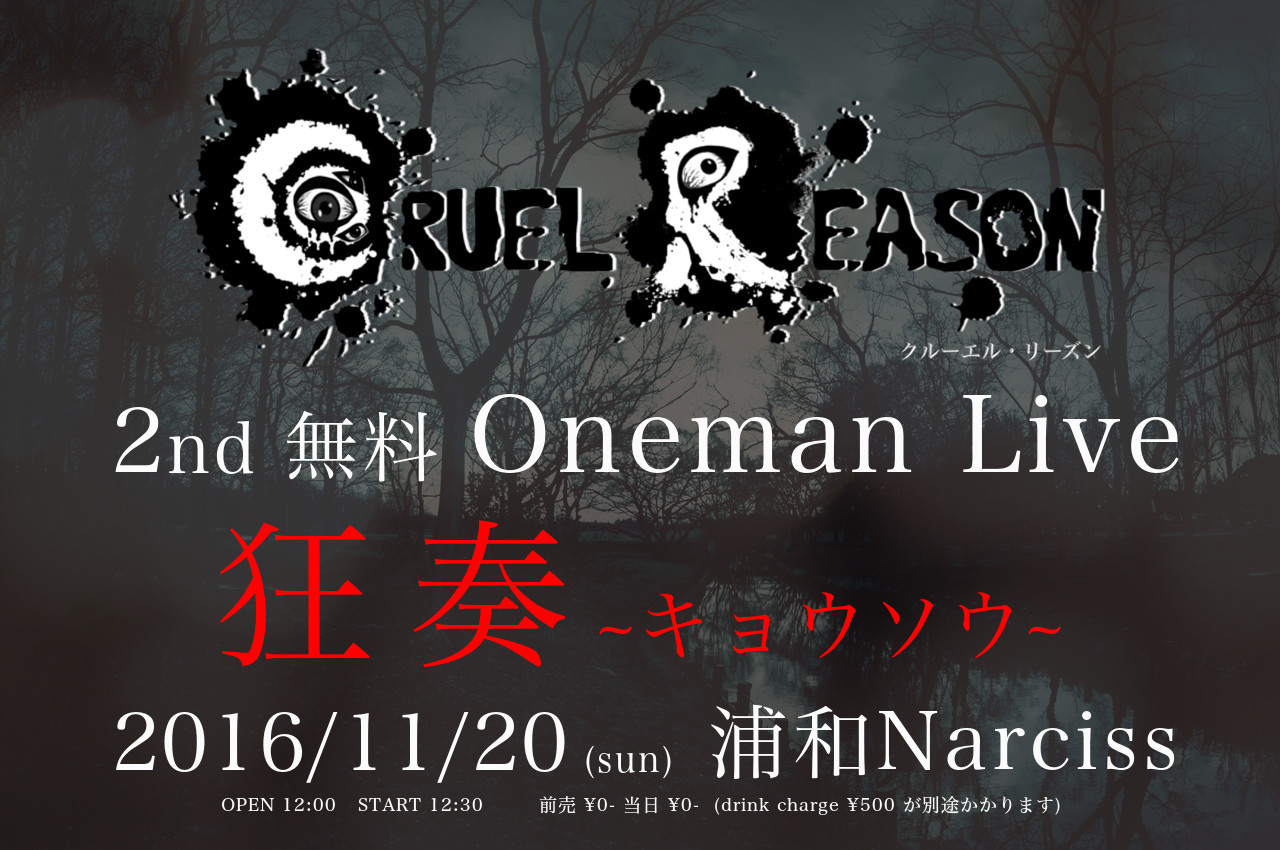
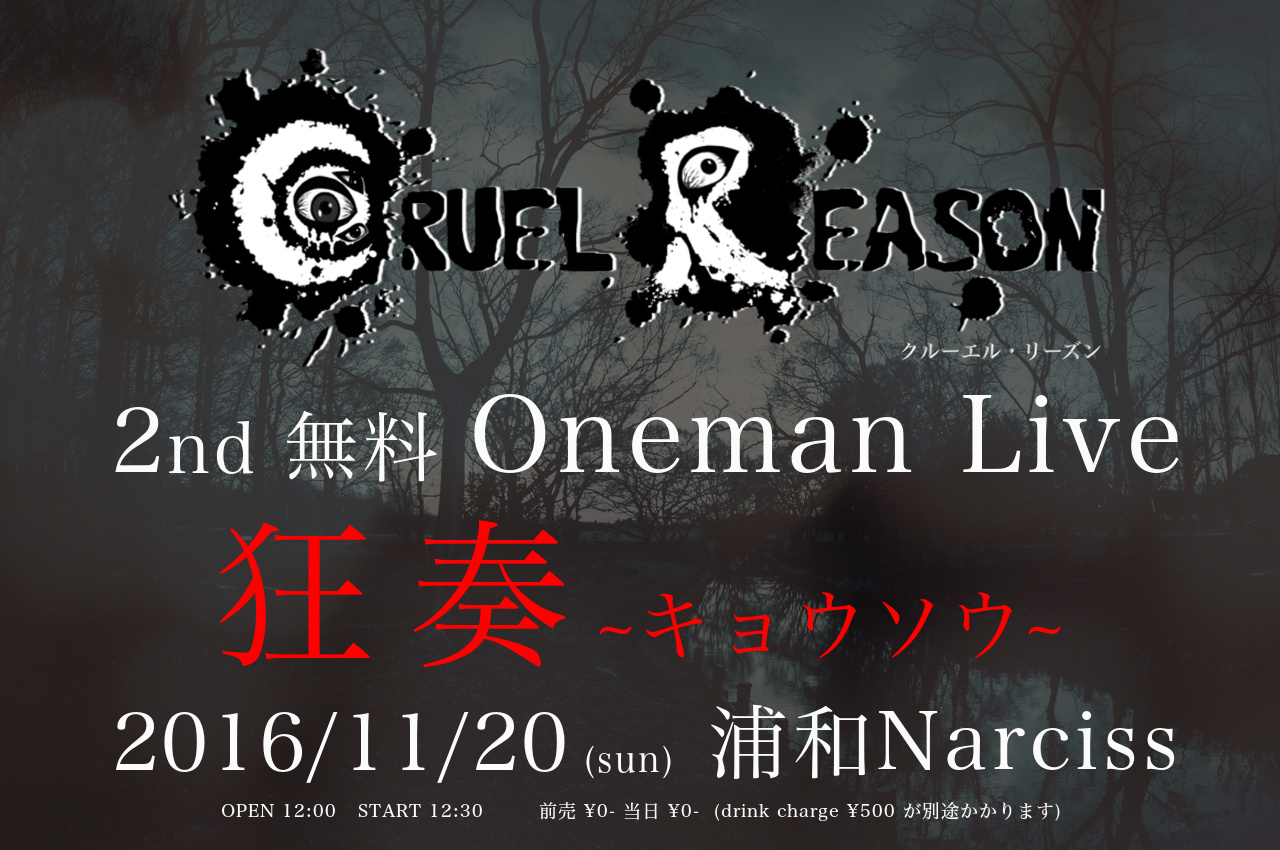
201611oneman updated

diff --git a/public/index.html b/public/index.html
@@ -60,7 +60,7 @@
           <div class="col-md-12">
             <div class="photoview slider">
               <div class="contents-image"><img src="./img/201604/artist1.jpg" class="maxwidth"></div>
-              <div class="contents-image"><img src="./img/201611oneman.png" class="maxwidth"></div>
+              <div class="contents-image"><img src="./img/201611oneman.jpg" class="maxwidth"></div>
             </div>
           </div>
         </div>
@@ -308,6 +308,51 @@
 <h4>その他</h4>
 
 <ul><li>詳細発表され次第UPいたします</li></ul>
+              </div>
+            </div>
+          </div>
+          <div class="col-md-6">
+            <div class="live panel panel-default">
+              <div class="panel-heading"><a href="#liveinfo014" data-toggle="collapse" style="border:0" class="list-group-item">
+                  <div class="date">11/6</div>
+                  <div class="title">タイトル未定<span class="caret"></span></div></a></div>
+              <div id="liveinfo014" class="collapse panel-body"><h4>会場</h4>
+
+<ul><li>浦和ナルシス</li></ul>
+
+<h4>その他</h4>
+
+<ul><li>詳細発表され次第UPいたします</li></ul>
+              </div>
+            </div>
+          </div>
+        </div>
+        <div class="row">
+          <div class="col-md-12">
+            <div class="live panel panel-default">
+              <div class="panel-heading"><a href="#liveinfo015" data-toggle="collapse" style="border:0" class="list-group-item">
+                  <div class="date">11/20</div>
+                  <div style="font-size:16pt" class="title">無料ワンマンライブ 「狂奏 ~キョウソウ~」<span class="caret"></span></div></a></div>
+              <div id="liveinfo015" class="collapse panel-body">
+                <div class="row">
+                  <div class="col-md-4"><h4>会場</h4>
+
+<ul><li>浦和ナルシス</li></ul>
+
+<h4>時間</h4>
+
+<ul><li>OPEN 12:00  START 12:30</li></ul>
+
+<h4>チケット</h4>
+
+<ul><li>前売 0円  当日 0円 (Drink代別 500円)</li></ul>
+
+<h4>出演</h4>
+
+<ul><li>CRUEL REASON</li></ul>
+                  </div>
+                  <div class="col-md-8"><img src="./img/201611oneman.jpg" width="100%"></div>
+                </div>
               </div>
             </div>
           </div>

diff --git a/public/_live.html b/public/_live.html
@@ -107,4 +107,49 @@
       </div>
     </div>
   </div>
+  <div class="col-md-6">
+    <div class="live panel panel-default">
+      <div class="panel-heading"><a href="#liveinfo014" data-toggle="collapse" style="border:0" class="list-group-item">
+          <div class="date">11/6</div>
+          <div class="title">タイトル未定<span class="caret"></span></div></a></div>
+      <div id="liveinfo014" class="collapse panel-body"><h4>会場</h4>
+
+<ul><li>浦和ナルシス</li></ul>
+
+<h4>その他</h4>
+
+<ul><li>詳細発表され次第UPいたします</li></ul>
+      </div>
+    </div>
+  </div>
+</div>
+<div class="row">
+  <div class="col-md-12">
+    <div class="live panel panel-default">
+      <div class="panel-heading"><a href="#liveinfo015" data-toggle="collapse" style="border:0" class="list-group-item">
+          <div class="date">11/20</div>
+          <div style="font-size:16pt" class="title">無料ワンマンライブ 「狂奏 ~キョウソウ~」<span class="caret"></span></div></a></div>
+      <div id="liveinfo015" class="collapse panel-body">
+        <div class="row">
+          <div class="col-md-4"><h4>会場</h4>
+
+<ul><li>浦和ナルシス</li></ul>
+
+<h4>時間</h4>
+
+<ul><li>OPEN 12:00  START 12:30</li></ul>
+
+<h4>チケット</h4>
+
+<ul><li>前売 0円  当日 0円 (Drink代別 500円)</li></ul>
+
+<h4>出演</h4>
+
+<ul><li>CRUEL REASON</li></ul>
+          </div>
+          <div class="col-md-8"><img src="./img/201611oneman.jpg" width="100%"/></div>
+        </div>
+      </div>
+    </div>
+  </div>
 </div>
